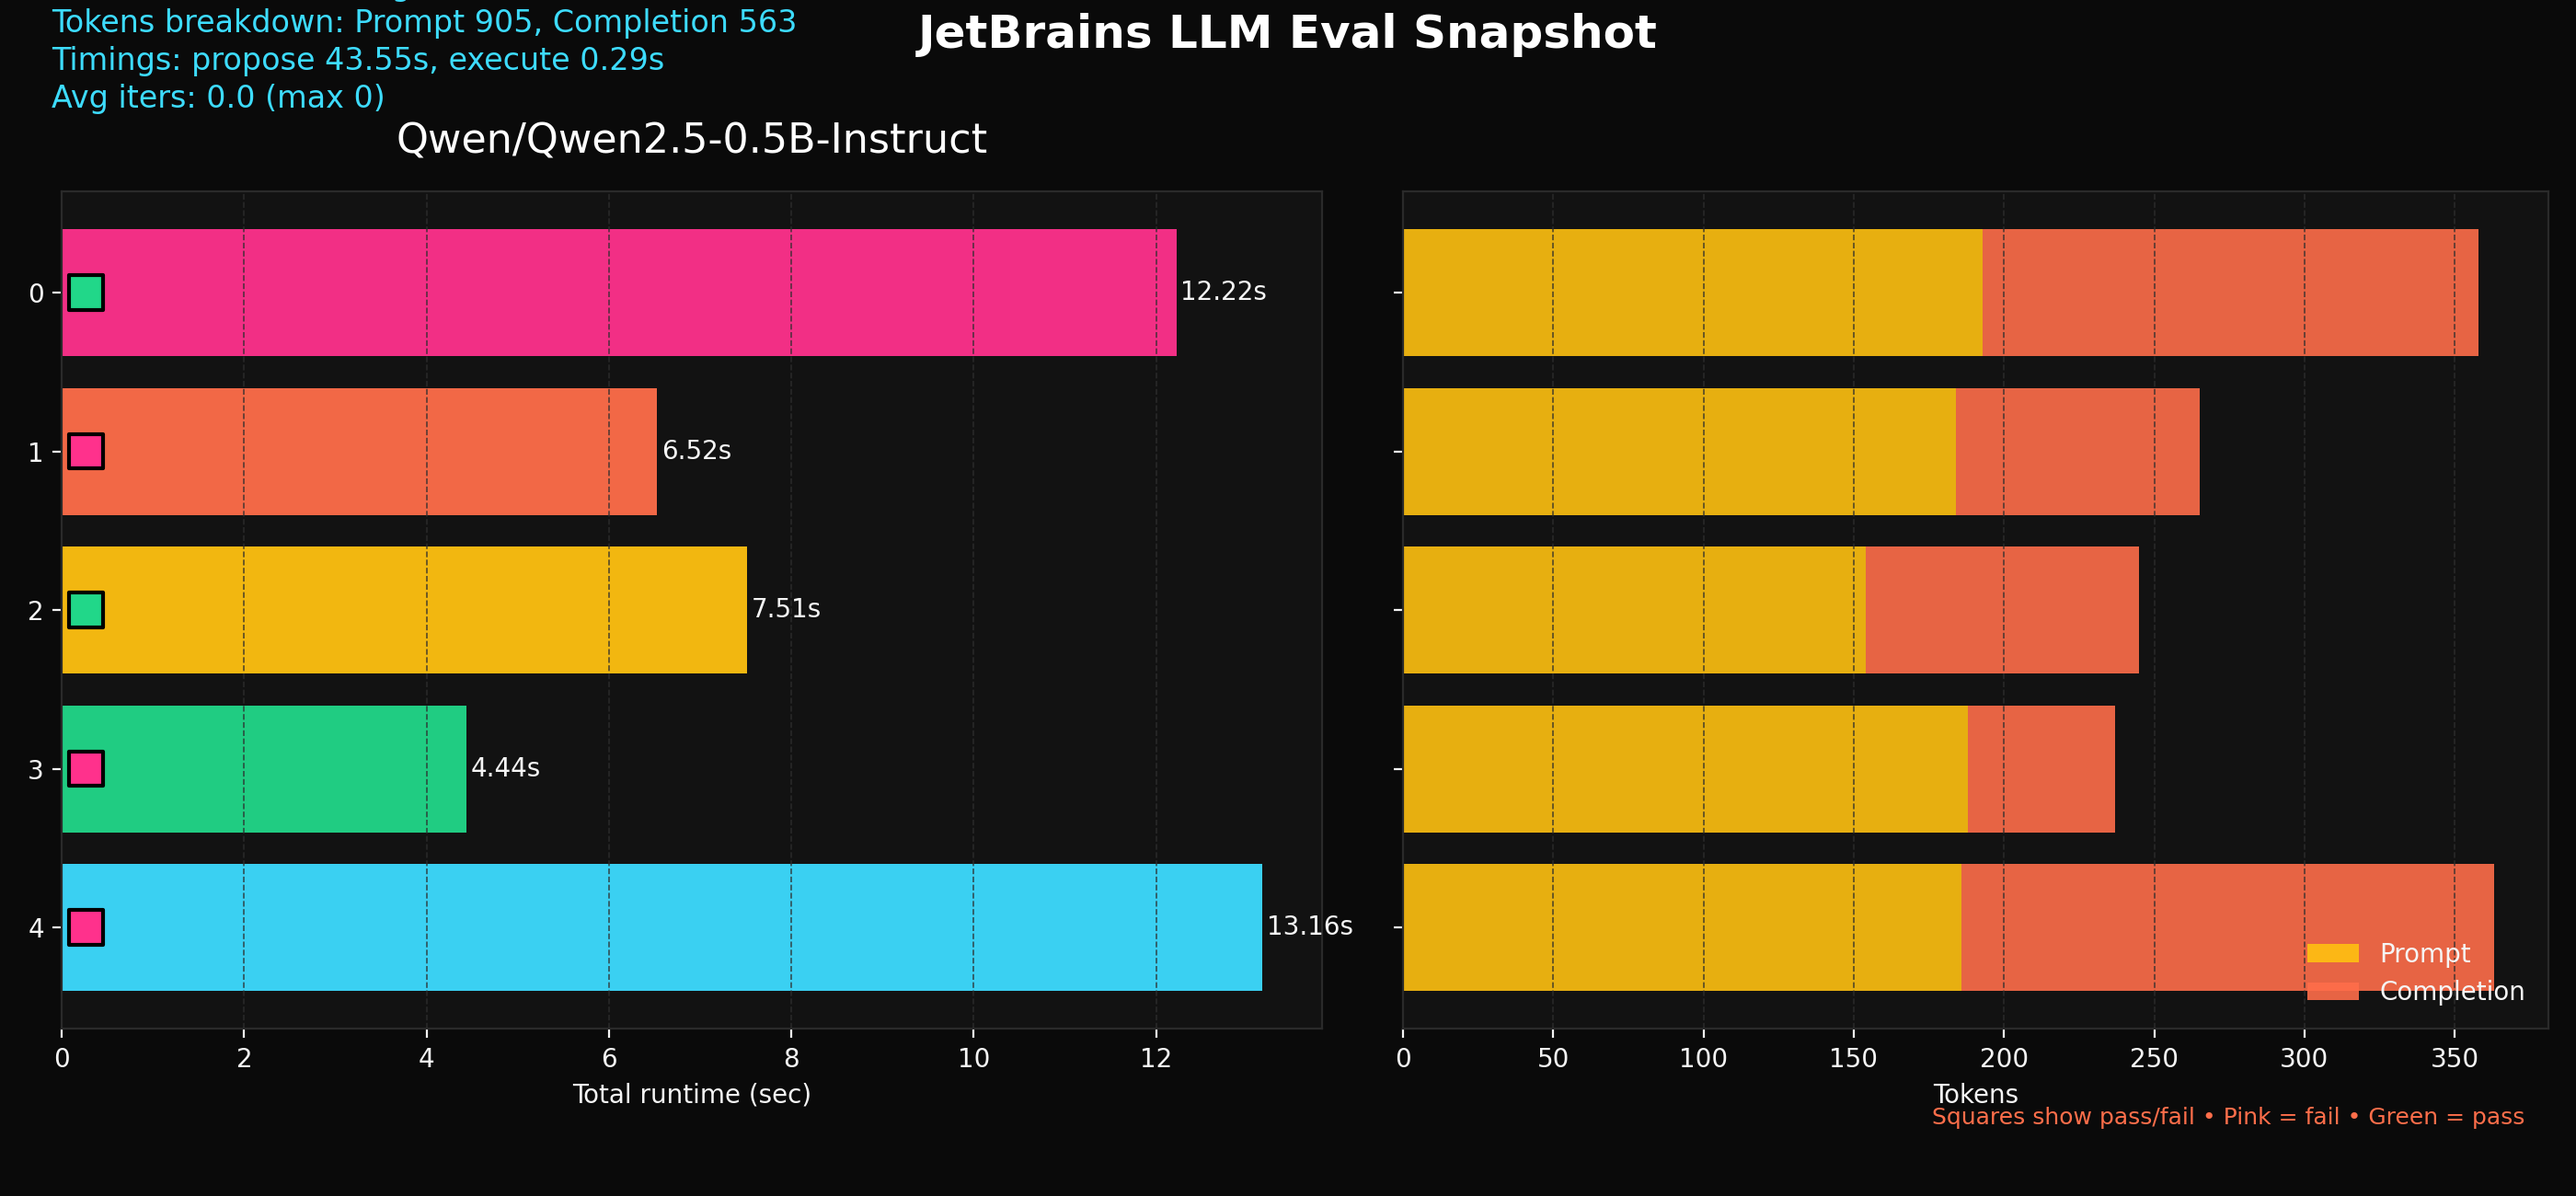
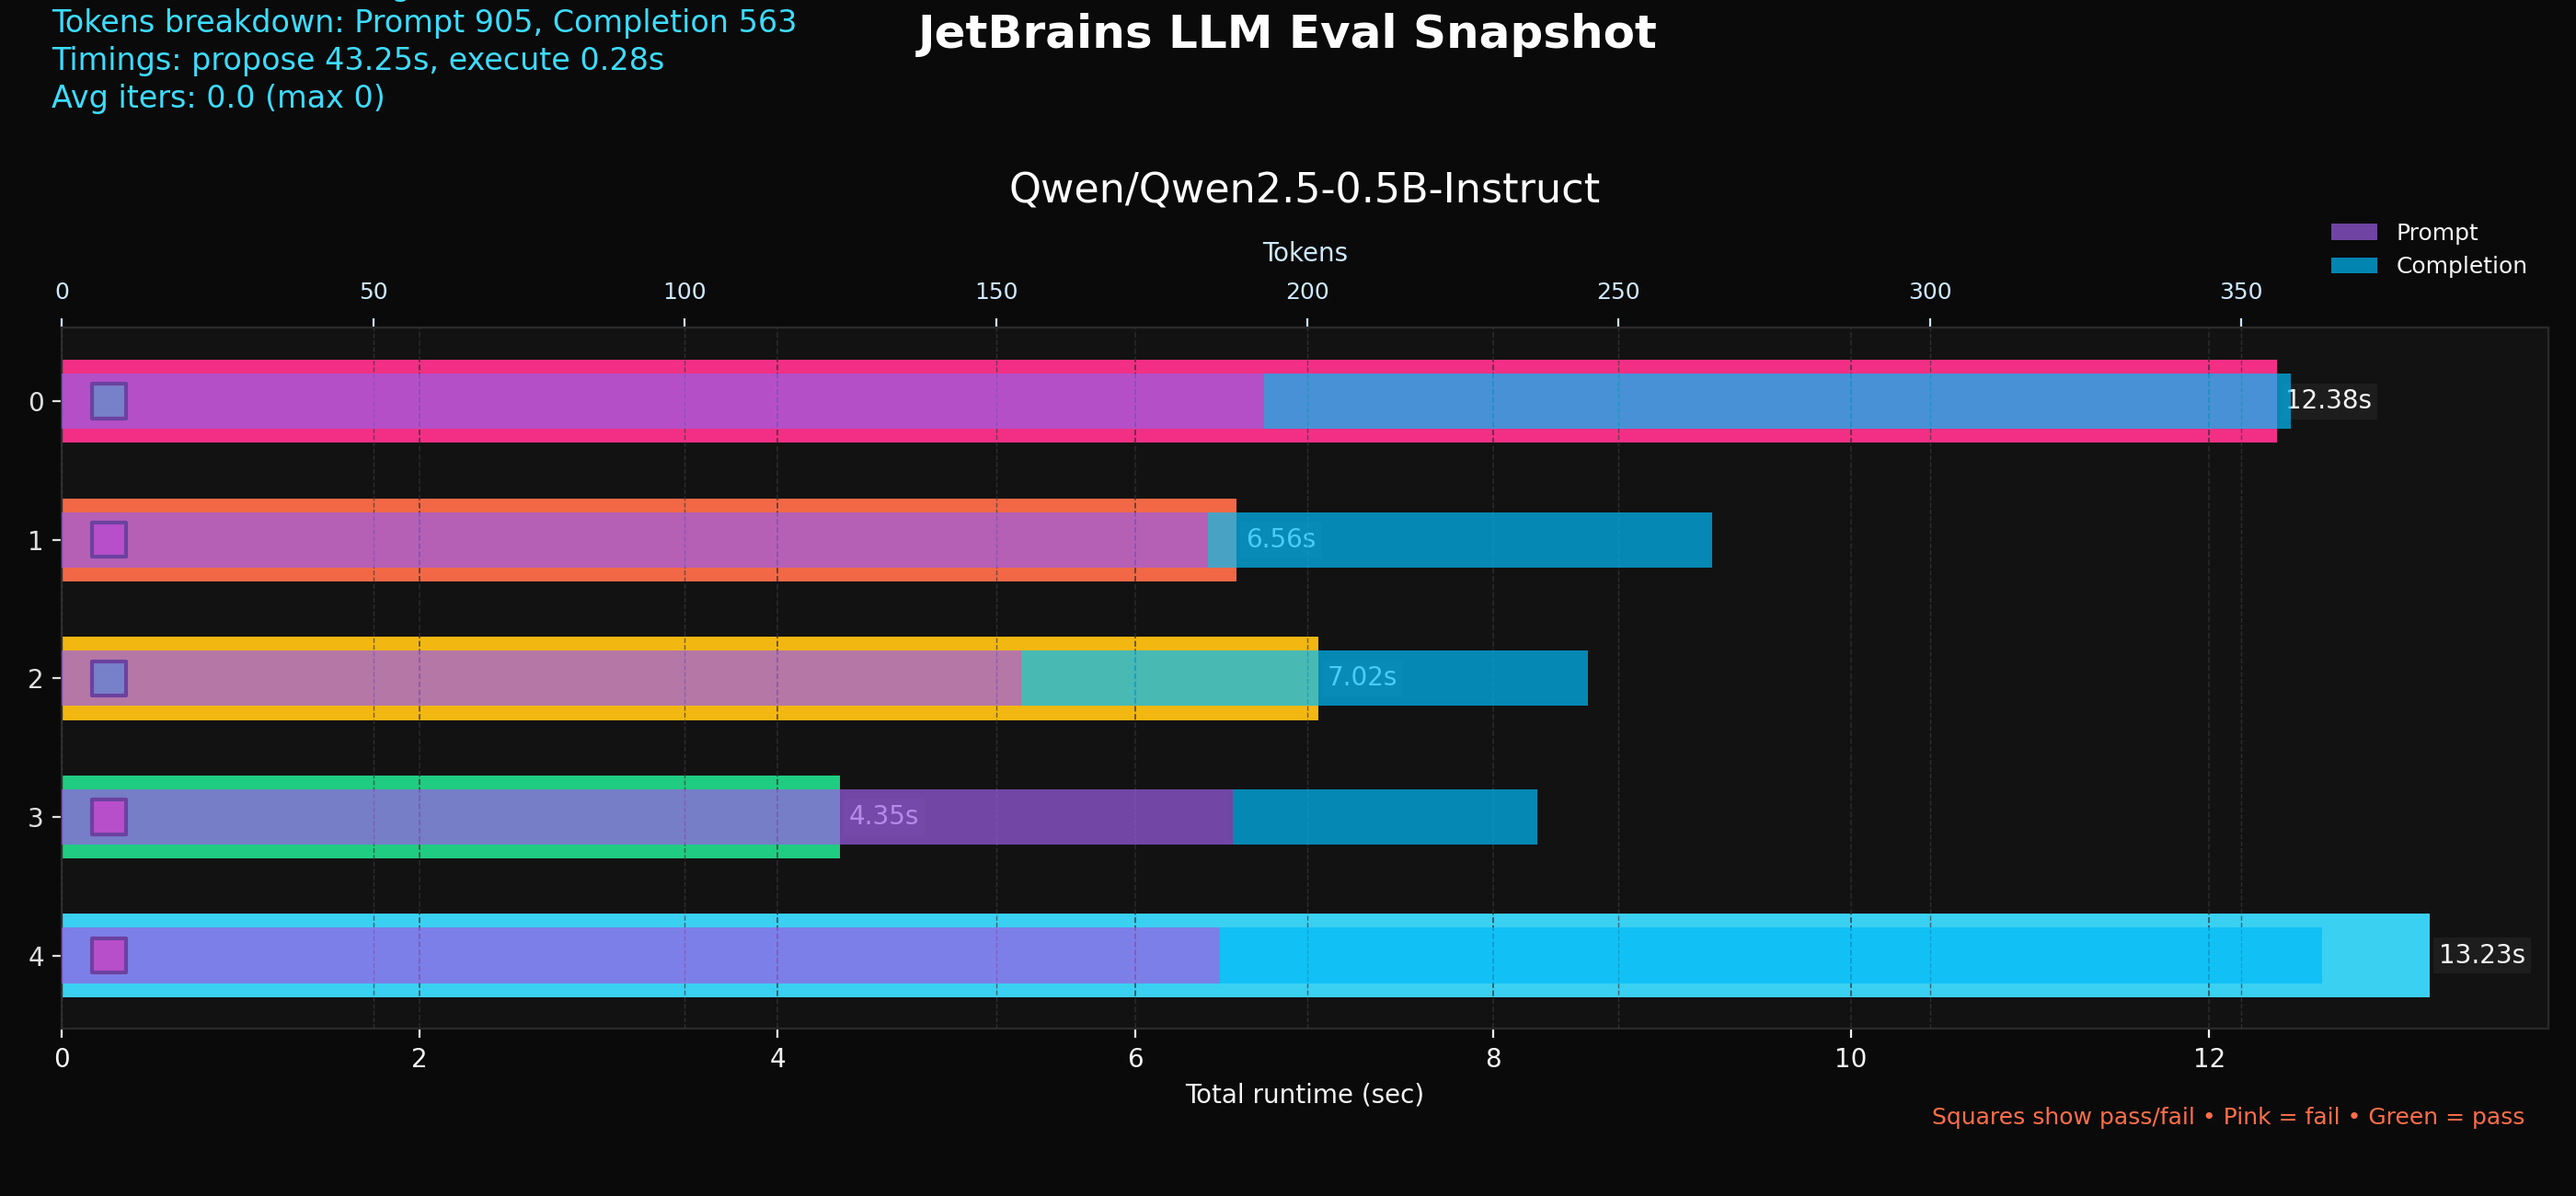
merge the graphs into 1 plot

diff --git a/src/visualize_results.py b/src/visualize_results.py
@@ -88,23 +88,36 @@ def plot_results(
     color_cycle = build_color_cycle(len(task_ids))
     pass_colors = ["#21D789" if flag else "#FF318C" for flag in passed]
 
-    fig, (ax_runtime, ax_tokens) = plt.subplots(
+    fig, ax_runtime = plt.subplots(
         1,
-        2,
-        sharey=True,
+        1,
         figsize=(14, 6.5),
         facecolor=JETBRAINS_BACKGROUND,
-        gridspec_kw={"width_ratios": [1.1, 1.0]},
     )
+    ax_tokens = ax_runtime.twiny()
 
     ax_runtime.set_facecolor(JETBRAINS_PANEL)
-    ax_runtime.tick_params(colors="#F5F5F5")
+    ax_runtime.tick_params(colors="#F5F5F5", axis="x")
     for spine in ax_runtime.spines.values():
         spine.set_color("#2A2A2A")
 
+    ax_tokens.spines["top"].set_color("#2A2A2A")
+    ax_tokens.spines["bottom"].set_visible(False)
+    ax_tokens.spines["left"].set_visible(False)
+    ax_tokens.spines["right"].set_visible(False)
+    ax_tokens.tick_params(axis="x", colors="#CFE8FF", labelsize=9, pad=6)
+    ax_tokens.tick_params(axis="y", left=False, labelleft=False)
+    ax_tokens.xaxis.set_ticks_position("top")
+    ax_tokens.set_facecolor("none")
+
     # Runtime bars with glow effect via shadowed patches
     bars = ax_runtime.barh(
-        task_ids, runtime, color=color_cycle, edgecolor="none", alpha=0.95
+        task_ids,
+        runtime,
+        color=color_cycle,
+        edgecolor="none",
+        alpha=0.95,
+        height=0.6,
     )
     ax_runtime.set_xlabel("Total runtime (sec)", color="#F5F5F5")
     if model_name:
@@ -117,6 +130,12 @@ def plot_results(
     )
 
     for idx, bar in enumerate(bars):
+        text_box = {
+            "facecolor": "#1F1F1F",
+            "alpha": 0.85,
+            "pad": 2,
+            "edgecolor": "none",
+        }
         ax_runtime.text(
             bar.get_width() + 0.05,
             bar.get_y() + bar.get_height() / 2,
@@ -125,11 +144,13 @@ def plot_results(
             ha="left",
             color="#F5F5F5",
             fontsize=10,
+            bbox=text_box,
         )
 
     # Pass/fail accent markers
+    max_runtime = max(runtime) if runtime else 1.0
     ax_runtime.scatter(
-        [0.02 * max(runtime) for _ in task_ids],
+        [0.02 * max_runtime for _ in task_ids],
         range(len(task_ids)),
         s=180,
         c=pass_colors,
@@ -139,19 +160,14 @@ def plot_results(
         zorder=3,
     )
 
-    # Token usage subplot (stacked horizontal bars)
-    ax_tokens.set_facecolor(JETBRAINS_PANEL)
-    ax_tokens.tick_params(colors="#F5F5F5", labelleft=False)
-    for spine in ax_tokens.spines.values():
-        spine.set_color("#2A2A2A")
-
+    # Token usage overlay on twin axis (stacked horizontal bars)
+    token_axis_colors = ["#9B5DE5", "#00BBF9", "#FEE440", "#00F5D4"]
     token_keys = [
         ("propose_prompt_tokens", "Prompt"),
         ("propose_completion_tokens", "Completion"),
         ("reflect_prompt_tokens", "Reflect prompt"),
         ("reflect_completion_tokens", "Reflect completion"),
     ]
-    token_colors = ["#FFC110", "#FF6E4A", "#3DDCFF", "#FF318C"]
     if token_usage is None:
         token_usage = [{} for _ in task_ids]
     cumulative = [0.0 for _ in task_ids]
@@ -163,26 +179,34 @@ def plot_results(
             task_ids,
             series,
             left=cumulative,
-            color=token_colors[idx_key % len(token_colors)],
+            color=token_axis_colors[idx_key % len(token_axis_colors)],
             edgecolor="none",
-            alpha=0.9,
+            alpha=0.7,
             label=label,
+            height=0.4,
+            zorder=2,
         )
         cumulative = [cum + val for cum, val in zip(cumulative, series)]
 
-    ax_tokens.set_xlabel("Tokens", color="#F5F5F5")
+    max_tokens = max(cumulative) if cumulative else 0.0
+    ax_tokens.set_xlim(0, max_tokens * 1.1 if max_tokens else 1.0)
+    ax_tokens.set_xlabel("Tokens", color="#CFE8FF", labelpad=8)
     ax_tokens.grid(
-        True, axis="x", linestyle="--", linewidth=0.6, color="#2E2E2E", alpha=0.8
+        True, axis="x", linestyle="--", linewidth=0.5, color="#3A3A3A", alpha=0.7
     )
+
     legend = ax_tokens.legend(
-        loc="lower right",
+        loc="upper right",
+        bbox_to_anchor=(1.0, 1.18),
         frameon=False,
-        facecolor=JETBRAINS_PANEL,
-        labelcolor="#F5F5F5",
+        fontsize=9,
     )
     if legend:
         for text in legend.get_texts():
             text.set_color("#F5F5F5")
+
+    # Align y-axis labels for clarity
+    ax_runtime.tick_params(axis="y", colors="#E0E0E0", labelsize=10)
 
     pass_rate = sum(passed) / len(passed) if passed else 0.0
     total_runtime = sum(runtime)
@@ -271,7 +295,7 @@ def plot_results(
         ha="right",
     )
 
-    plt.tight_layout(rect=(0, 0.05, 1, 0.92))
+    plt.tight_layout(rect=(0, 0.05, 1, 0.88))
     output.parent.mkdir(parents=True, exist_ok=True)
     fig.savefig(str(output), facecolor=JETBRAINS_BACKGROUND, dpi=200)
     plt.close(fig)
